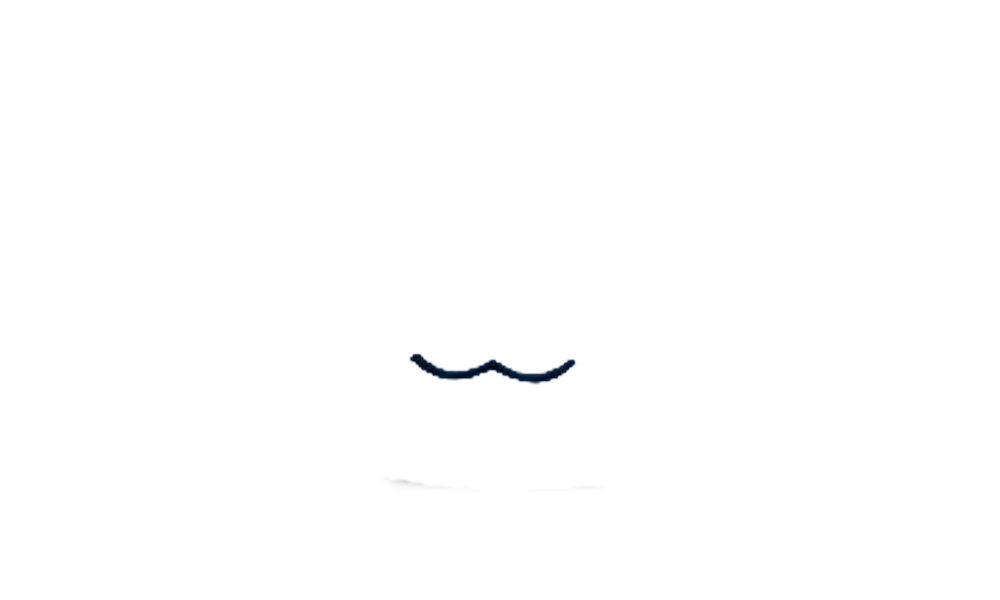
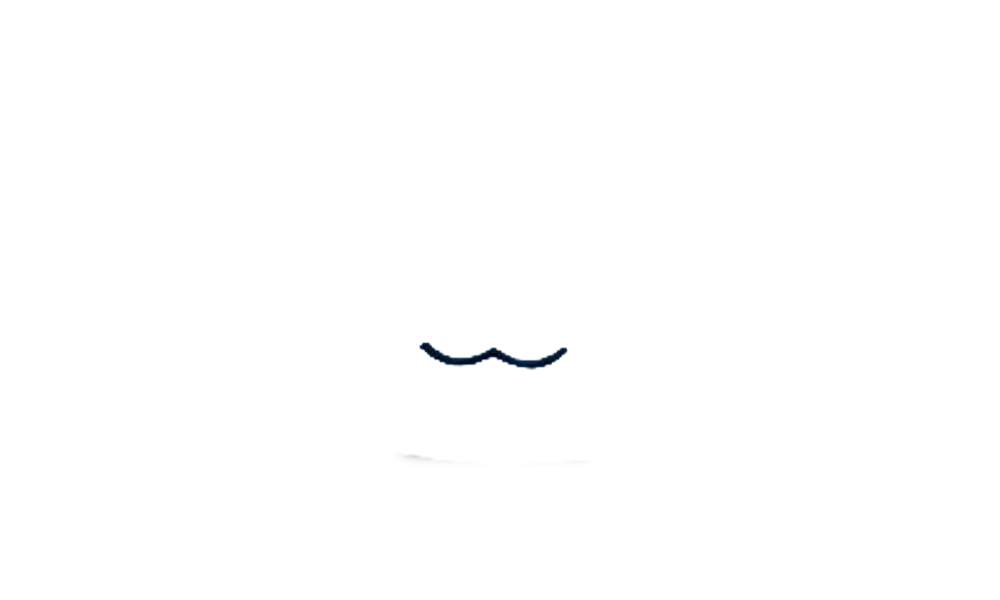
Knight: smaller eyes, sword and shield stand on the floor beside him, background always covers full width
Claude-Session: https://claude.ai/code/session_01HdTDkaoMVJGspDGXskbe46

Changed region(s): [[0.403, 0.57, 0.589, 0.66]]

diff --git a/public/knight3d.js b/public/knight3d.js
@@ -1,5 +1,5 @@
 // 3D knight for the main page: Mixamo animations, drawn face (blink + mouth synced to speech),
-// sword at the hip, shield on the back, and Talking-Tom-style reactions: poke head / body / legs,
+// sword and shield standing on the floor beside him, and Talking-Tom-style reactions: poke head / body / legs,
 // poke many times → he falls and gets up, rub him → he laughs (tickle).
 // Usage (from index.html): const k = await createKnight(hostEl, { onReact });
 //   k.mode('idle'|'wave'|'listen'|'think'|'talk')   k.talking(true|false)   k.emote('laugh')
@@ -13,11 +13,11 @@ const num = (k, v) => (DBG.has(k) ? +DBG.get(k) : v);
 
 // ---- tuning (world units, knight is ~1.67 tall, faces +Z) ----
 const FACE = { w: num('fw', 0.8), y: num('fy', 0.22), z: num('fz', 0.42), cx: num('cx', 0.9), cy: num('cy', 0.6) };
-// sword: in a sling on the back, hilt over the right shoulder; shield: on the left forearm, NEAR logo to the front
-const SWORD = { bone: 'mixamorigSpine2', pos: [num('sx', -0.25), num('sy', 1.05), num('sz', -0.24)], rot: [0, 0, num('sr', 225)], scale: 0.8 };
-const SHIELD = { bone: 'mixamorigLeftForeArm', rel: true, pos: [num('hx', 0.1), num('hy', -0.05), num('hz', 0.1)], rot: [0, num('hry', 15), num('hrz', 0)], scale: num('hs', 0.5) };
+// shield stands on the floor at the knight's side, NEAR logo to the front; the sword is stuck in the ground behind it
+const SWORD = { pos: [num('sx', -0.5), num('sy', 0.42), num('sz', -0.25)], rot: [0, 0, num('sr', 148)], scale: num('ss', 0.8) };
+const SHIELD = { pos: [num('hx', -0.53), num('hy', 0.22), num('hz', -0.12)], rot: [num('hrx', -8), num('hry', 12), num('hrz', 6)], scale: num('hs', 0.46) };
 // chibi body is wide: push the upper arms away from the torso in every animation (like Mixamo's "arm space")
-const ARM_OUT = num('arm', 20) * Math.PI / 180, ARM_AXIS = DBG.get('armax') || 'x';
+const ARM_OUT = num('arm', 16) * Math.PI / 180, ARM_AXIS = DBG.get('armax') || 'x';
 
 export async function createKnight(host, { onReact = () => {} } = {}) {
   // ---------- renderer ----------
@@ -69,10 +69,10 @@ export async function createKnight(host, { onReact = () => {} } = {}) {
   // weapons: placed in world space on the first idle frame, then they follow their bones
   act('Idle').play(); mixer.setTime(0); knight.updateMatrixWorld(true);
   const place = (item, cfg) => {
-    const b = bone(cfg.bone); if (!b) return;
+    const b = cfg.bone && bone(cfg.bone);
     const m = item.scene; m.scale.setScalar(cfg.scale);
-    m.position.set(...cfg.pos); if (cfg.rel) m.position.add(b.getWorldPosition(new THREE.Vector3())); m.quaternion.setFromEuler(new THREE.Euler(...cfg.rot.map(x => x * Math.PI / 180)));
-    S.add(m); m.updateMatrixWorld(true); b.attach(m);
+    m.position.set(...cfg.pos); if (cfg.rel && b) m.position.add(b.getWorldPosition(new THREE.Vector3())); m.quaternion.setFromEuler(new THREE.Euler(...cfg.rot.map(x => x * Math.PI / 180)));
+    S.add(m); m.updateMatrixWorld(true); if (b) b.attach(m);
   };
 
   const armL = bone('mixamorigLeftArm'), armR = bone('mixamorigRightArm');

diff --git a/public/index.html b/public/index.html
@@ -923,7 +923,7 @@
     const feetY=ch.bottom-app.top-ch.height*0.025, feetX=ch.left-app.left+ch.width*0.5;
     const H=app.height;
     let sc=feetY/(ih*RING.y);           // масштаб по высоте: круг всегда одного размера относительно рыцаря
-    if(iw*sc<W*0.6) sc=W*0.6/iw;
+    if(iw*sc<W) sc=W/iw;               // always cover the full width: no empty sides on phones
     const w=iw*sc, h=ih*sc;
     bgImg.style.width=w+'px'; bgImg.style.height=h+'px';
     // если фон уже экрана — края не нужно растворять
